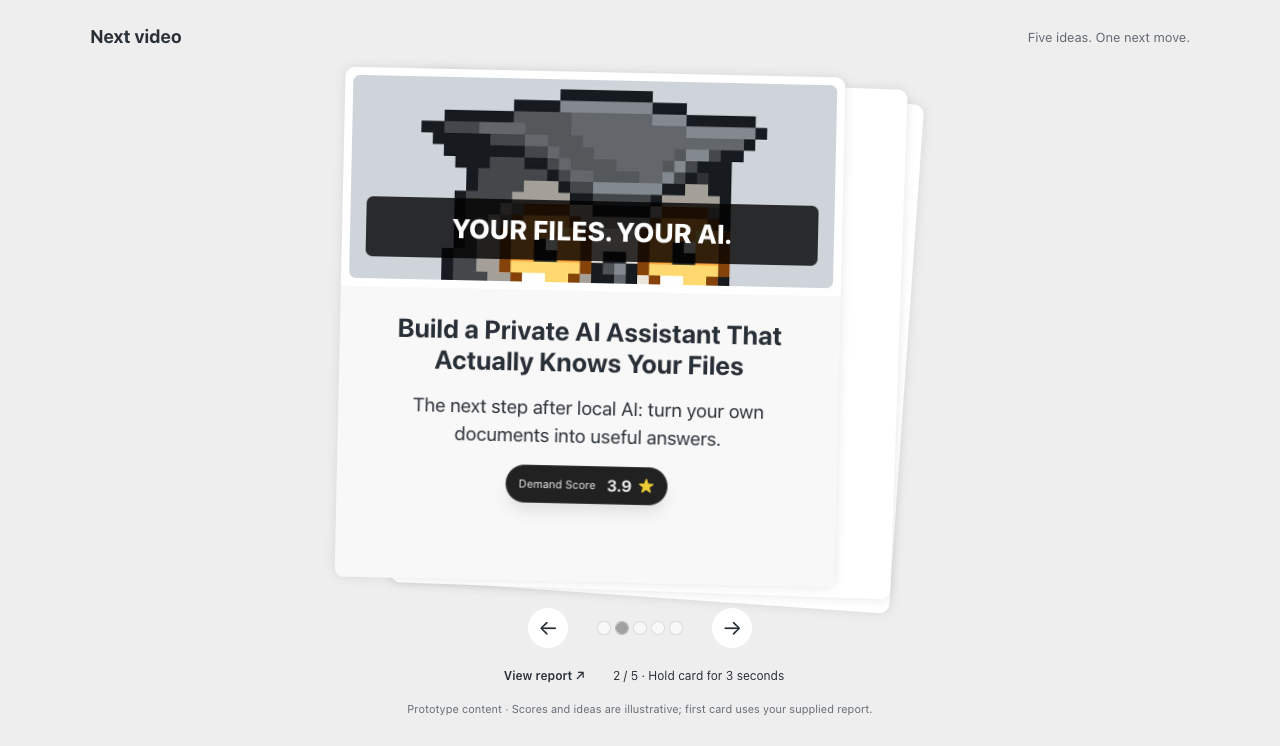
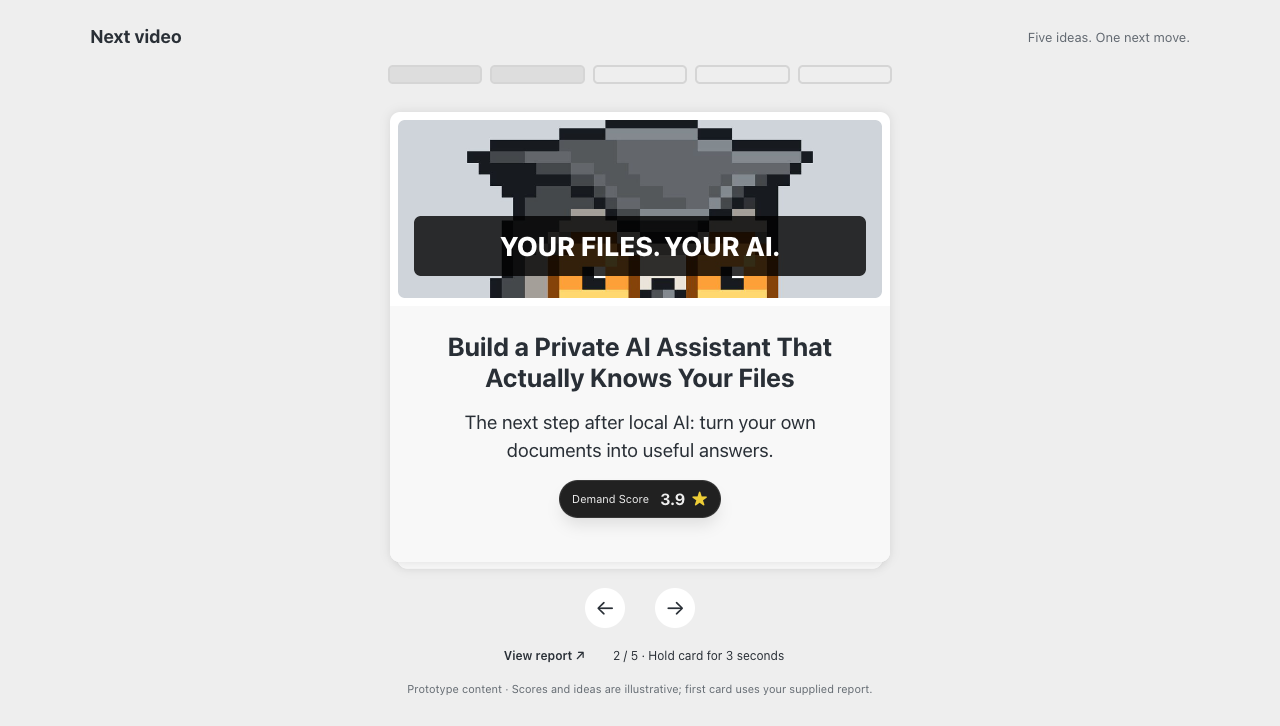
Restore swipe overlays, fly-out animations and Paper progress bar

diff --git a/src/App.tsx b/src/App.tsx
@@ -2,6 +2,7 @@ import { useEffect, useRef, useState, type PointerEvent } from 'react';
 import { ideas, type VideoIdea } from './content';
 import { clamp } from './utils/math';
 import './index.css';
+import ProgressMask from './components/progress-mask';
 const thumbnail = '/thumbnail.jpg';
 function Heading({ idea }: { idea: VideoIdea }) {
   return (
@@ -19,6 +20,8 @@ function App() {
   const [index, setIndex] = useState(0),
     [expanded, setExpanded] = useState(false),
     [holding, setHolding] = useState(false),
+    [interacting, setInteracting] = useState(false),
+    [exiting, setExiting] = useState(false),
     [drag, setDrag] = useState({ x: 0, y: 0 }),
     [selected, setSelected] = useState<string | null>(() =>
       localStorage.getItem('selected-video'),
@@ -26,6 +29,8 @@ function App() {
     [comment, setComment] = useState(0);
   const start = useRef<{ x: number; y: number } | null>(null),
     timer = useRef<ReturnType<typeof setTimeout>>(),
+    flightTimer = useRef<ReturnType<typeof setTimeout>>(),
+    busy = useRef(false),
     report = useRef<HTMLDivElement>(null),
     reportStart = useRef<number | null>(null);
   const idea = ideas[index];
@@ -33,14 +38,26 @@ function App() {
     clearTimeout(timer.current);
     setHolding(false);
   };
-  const navigate = (direction: number) => {
+  const navigate = (direction: number, flightDirection = direction) => {
+    if (busy.current) return;
     cancel();
-    setIndex((i) => (i + direction + ideas.length) % ideas.length);
-    setDrag({ x: 0, y: 0 });
-    setComment(0);
+    start.current = null;
+    setInteracting(false);
+    busy.current = true;
+    setExiting(true);
+    setDrag({ x: flightDirection * (window.innerWidth + 500), y: 40 });
+    flightTimer.current = setTimeout(() => {
+      setIndex((i) => (i + direction + ideas.length) % ideas.length);
+      setDrag({ x: 0, y: 0 });
+      setComment(0);
+      setExiting(false);
+      busy.current = false;
+    }, 300);
   };
   const open = () => {
+    if (busy.current) return;
     cancel();
+    setInteracting(false);
     start.current = null;
     setDrag({ x: 0, y: 0 });
     setExpanded(true);
@@ -49,18 +66,22 @@ function App() {
     setExpanded(false);
     reportStart.current = null;
   };
-  useEffect(() => () => clearTimeout(timer.current), []);
+  useEffect(
+    () => () => {
+      clearTimeout(timer.current);
+      clearTimeout(flightTimer.current);
+    },
+    [],
+  );
   useEffect(() => {
     const handler = (e: KeyboardEvent) => {
       if (e.key === 'Escape') setExpanded(false);
-      if (!expanded && e.key === 'ArrowRight')
-        setIndex((i) => (i + 1) % ideas.length);
-      if (!expanded && e.key === 'ArrowLeft')
-        setIndex((i) => (i + ideas.length - 1) % ideas.length);
+      if (!expanded && e.key === 'ArrowRight') navigate(1);
+      if (!expanded && e.key === 'ArrowLeft') navigate(-1);
     };
     window.addEventListener('keydown', handler);
     return () => window.removeEventListener('keydown', handler);
-  }, [expanded]);
+  });
   useEffect(() => {
     if (expanded) {
       const previous = document.activeElement as HTMLElement;
@@ -69,7 +90,8 @@ function App() {
     }
   }, [expanded]);
   const down = (e: PointerEvent<HTMLElement>) => {
-    if (e.button !== 0) return;
+    if (e.button !== 0 || busy.current) return;
+    setInteracting(true);
     e.currentTarget.setPointerCapture(e.pointerId);
     start.current = { x: e.clientX, y: e.clientY };
     setHolding(true);
@@ -80,14 +102,15 @@ function App() {
     const x = e.clientX - start.current.x,
       y = e.clientY - start.current.y;
     if (Math.hypot(x, y) > 10) cancel();
-    setDrag({ x: x * 0.8, y: y * 0.25 });
+    setDrag({ x: x * 0.8, y: y * 0.5 });
   };
   const up = (e: PointerEvent<HTMLElement>) => {
     cancel();
+    setInteracting(false);
     if (!start.current) return;
     const dx = e.clientX - start.current.x;
     start.current = null;
-    if (Math.abs(dx) > 100) navigate(dx < 0 ? 1 : -1);
+    if (Math.abs(dx) > 100) navigate(dx < 0 ? 1 : -1, dx < 0 ? -1 : 1);
     else setDrag({ x: 0, y: 0 });
   };
   return (
@@ -96,20 +119,47 @@ function App() {
         <span>Next video</span>
         <small>Five ideas. One next move.</small>
       </header>
+      <nav className="top-progress" aria-label="Deck progress">
+        {ideas.map((v, i) => (
+          <button
+            key={v.id}
+            aria-label={`Go to idea ${i + 1}`}
+            aria-current={i === index ? 'step' : undefined}
+            className={i <= index ? 'filled' : ''}
+            disabled={exiting}
+            onClick={() => {
+              cancel();
+              setIndex(i);
+              setComment(0);
+            }}
+          />
+        ))}
+      </nav>
       <div className="deck-area">
-        <div className="stack back-two" />
-        <div className="stack back-one" />
+        <div
+          className={`stack preview-card ${exiting ? 'promoting' : ''}`}
+          aria-hidden="true"
+        >
+          <div className="thumbnail">
+            <img src={thumbnail} alt="" />
+          </div>
+          <div className="description">
+            <Heading idea={ideas[(index + 1) % ideas.length]} />
+          </div>
+        </div>
         <article
+          key={idea.id}
           aria-label={`Video idea ${index + 1} of 5`}
-          className="idea-card"
+          className={`idea-card ${interacting ? 'dragging' : ''} ${exiting ? 'exiting' : ''}`}
           style={{
-            transform: `translate(${drag.x}px,${drag.y}px) rotate(${clamp(drag.x / 600, -1, 1) * -15}deg)`,
+            transform: `translate(${drag.x}px,${drag.y}px) rotate(${clamp(drag.x / 600, -1, 1) * -30}deg)`,
           }}
           onPointerDown={down}
           onPointerMove={move}
           onPointerUp={up}
           onPointerCancel={() => {
             cancel();
+            setInteracting(false);
             start.current = null;
             setDrag({ x: 0, y: 0 });
           }}
@@ -138,6 +188,10 @@ function App() {
           <div className="description">
             <Heading idea={idea} />
           </div>
+          <ProgressMask
+            progress={clamp(drag.x / 100, -1, 1)}
+            isInteracting={interacting}
+          />
           <div className={`hold-track ${holding ? 'holding' : ''}`}>
             <span />
           </div>
@@ -147,20 +201,6 @@ function App() {
         <button aria-label="Previous idea" onClick={() => navigate(-1)}>
           ←
         </button>
-        <div className="dots">
-          {ideas.map((v, i) => (
-            <button
-              key={v.id}
-              className={index === i ? 'active' : ''}
-              aria-label={`Go to idea ${i + 1}`}
-              aria-current={index === i ? 'true' : undefined}
-              onClick={() => {
-                setIndex(i);
-                setComment(0);
-              }}
-            />
-          ))}
-        </div>
         <button aria-label="Next idea" onClick={() => navigate(1)}>
           →
         </button>

diff --git a/tests/deck.spec.ts b/tests/deck.spec.ts
@@ -21,6 +21,8 @@ test('browse five ideas, hold to read, select, and return', async ({
     );
   }
   await page.getByRole('button', { name: 'Next idea', exact: true }).click();
+  await expect(page.getByRole('article')).toHaveAttribute('aria-label', 'Video idea 1 of 5');
+  await expect(page.getByRole('article')).not.toHaveClass(/exiting/);
   const card = await page.getByRole('article').boundingBox();
   if (!card) throw new Error('Missing card');
   await page.mouse.move(card.x + card.width / 2, card.y + 100);
@@ -75,16 +77,12 @@ test('mobile report scrolls and dismisses only at the top', async ({
     el.scrollTop = 500;
   });
   const swipe = async () => {
-    await page
-      .locator('.report-scroll')
-      .dispatchEvent('touchstart', {
-        touches: [{ identifier: 1, clientX: 100, clientY: 100 }],
-      });
-    await page
-      .locator('.report-scroll')
-      .dispatchEvent('touchend', {
-        changedTouches: [{ identifier: 1, clientX: 100, clientY: 250 }],
-      });
+    await page.locator('.report-scroll').dispatchEvent('touchstart', {
+      touches: [{ identifier: 1, clientX: 100, clientY: 100 }],
+    });
+    await page.locator('.report-scroll').dispatchEvent('touchend', {
+      changedTouches: [{ identifier: 1, clientX: 100, clientY: 250 }],
+    });
   };
   await swipe();
   await expect(page.getByRole('dialog')).toBeVisible();
@@ -99,4 +97,38 @@ test('mobile report scrolls and dismisses only at the top', async ({
   );
   expect(overflow).toBe(false);
   await context.close();
+});
+
+test('direction overlays and fly-out animation match the demo', async ({
+  page,
+}) => {
+  await page.goto('http://127.0.0.1:5173');
+  const card = page.getByRole('article');
+  const box = await card.boundingBox();
+  if (!box) throw new Error('Missing card');
+  await expect(
+    page.getByRole('navigation', { name: 'Deck progress' }).getByRole('button'),
+  ).toHaveCount(5);
+  for (const direction of [-1, 1]) {
+    await page.mouse.move(box.x + box.width / 2, box.y + 150);
+    await page.mouse.down();
+    await page.mouse.move(
+      box.x + box.width / 2 + direction * 150,
+      box.y + 150,
+      { steps: 8 },
+    );
+    const overlay = card.getByTestId('drag-overlay');
+    await expect(overlay).toHaveCSS(
+      'background-color',
+      direction < 0 ? 'rgb(244, 67, 54)' : 'rgb(0, 191, 165)',
+    );
+    await page.screenshot({
+      path:
+        direction < 0 ? 'artifacts/drag-left.png' : 'artifacts/drag-right.png',
+    });
+    await page.mouse.up();
+    await expect(card).toHaveClass(/exiting/);
+    await expect(card).not.toHaveClass(/exiting/);
+  }
+  await expect(card).toHaveAttribute('aria-label', 'Video idea 1 of 5');
 });

diff --git a/src/index.css b/src/index.css
@@ -380,3 +380,76 @@ h2 {
     transition: none;
   }
 }
+
+/* Original demo stack: straight cards, recessed by 20px at 97% scale. */
+.top-progress {
+  display: flex;
+  gap: 12px;
+  padding: 12px;
+  width: min(524px, 100%);
+  margin: 0 auto 18px;
+}
+.top-progress button {
+  flex: 1;
+  height: 15px;
+  border-radius: 3px;
+  outline: 2px solid #bdbdbd80;
+  background: transparent;
+  padding: 0;
+  transition: background 0.3s;
+}
+.top-progress button.filled {
+  background: #ddd;
+}
+.top-progress button:focus-visible {
+  outline: 3px solid #292f36;
+}
+.preview-card {
+  display: flex;
+  flex-direction: column;
+  overflow: hidden;
+  transform: translateY(20px) scale(0.97);
+  transform-origin: center top;
+  transition:
+    transform 0.3s ease,
+    box-shadow 0.3s;
+}
+.preview-card.promoting {
+  transform: translateY(0) scale(1);
+}
+.idea-card {
+  transform-origin: center top;
+  transition: transform 0.3s ease-in-out;
+}
+.idea-card.dragging {
+  transition: none;
+}
+.idea-card.exiting {
+  pointer-events: none;
+}
+.deck-area {
+  height: min(759px, calc(100dvh - 270px));
+}
+.app-header {
+  margin-bottom: 8px;
+}
+@media (max-height: 900px) {
+  .preview-card .thumbnail {
+    height: 43%;
+  }
+}
+@media (max-width: 540px) {
+  .deck-area {
+    height: calc(100dvh - 260px);
+    min-height: 410px;
+  }
+  .top-progress {
+    padding: 12px 0;
+  }
+}
+@media (prefers-reduced-motion: reduce) {
+  .preview-card,
+  .idea-card {
+    transition: none;
+  }
+}

diff --git a/src/components/progress-mask/progress-mask.tsx b/src/components/progress-mask/progress-mask.tsx
@@ -25,11 +25,13 @@ function ProgressMask({ progress, isInteracting }: Props) {
   }, [progress]);
 
   const dasharray = Math.PI * 2 * 27;
-  const dashoffset = dasharray - Math.PI * 2 * 27 * clamp(progress, -1, 1);
+  const dashoffset =
+    dasharray - Math.PI * 2 * 27 * Math.abs(clamp(progress, -1, 1));
   const isActive = Math.abs(progress) === 1;
 
   return (
     <div
+      data-testid="drag-overlay"
       className={[
         styles.container,
         isActive && styles.active,
